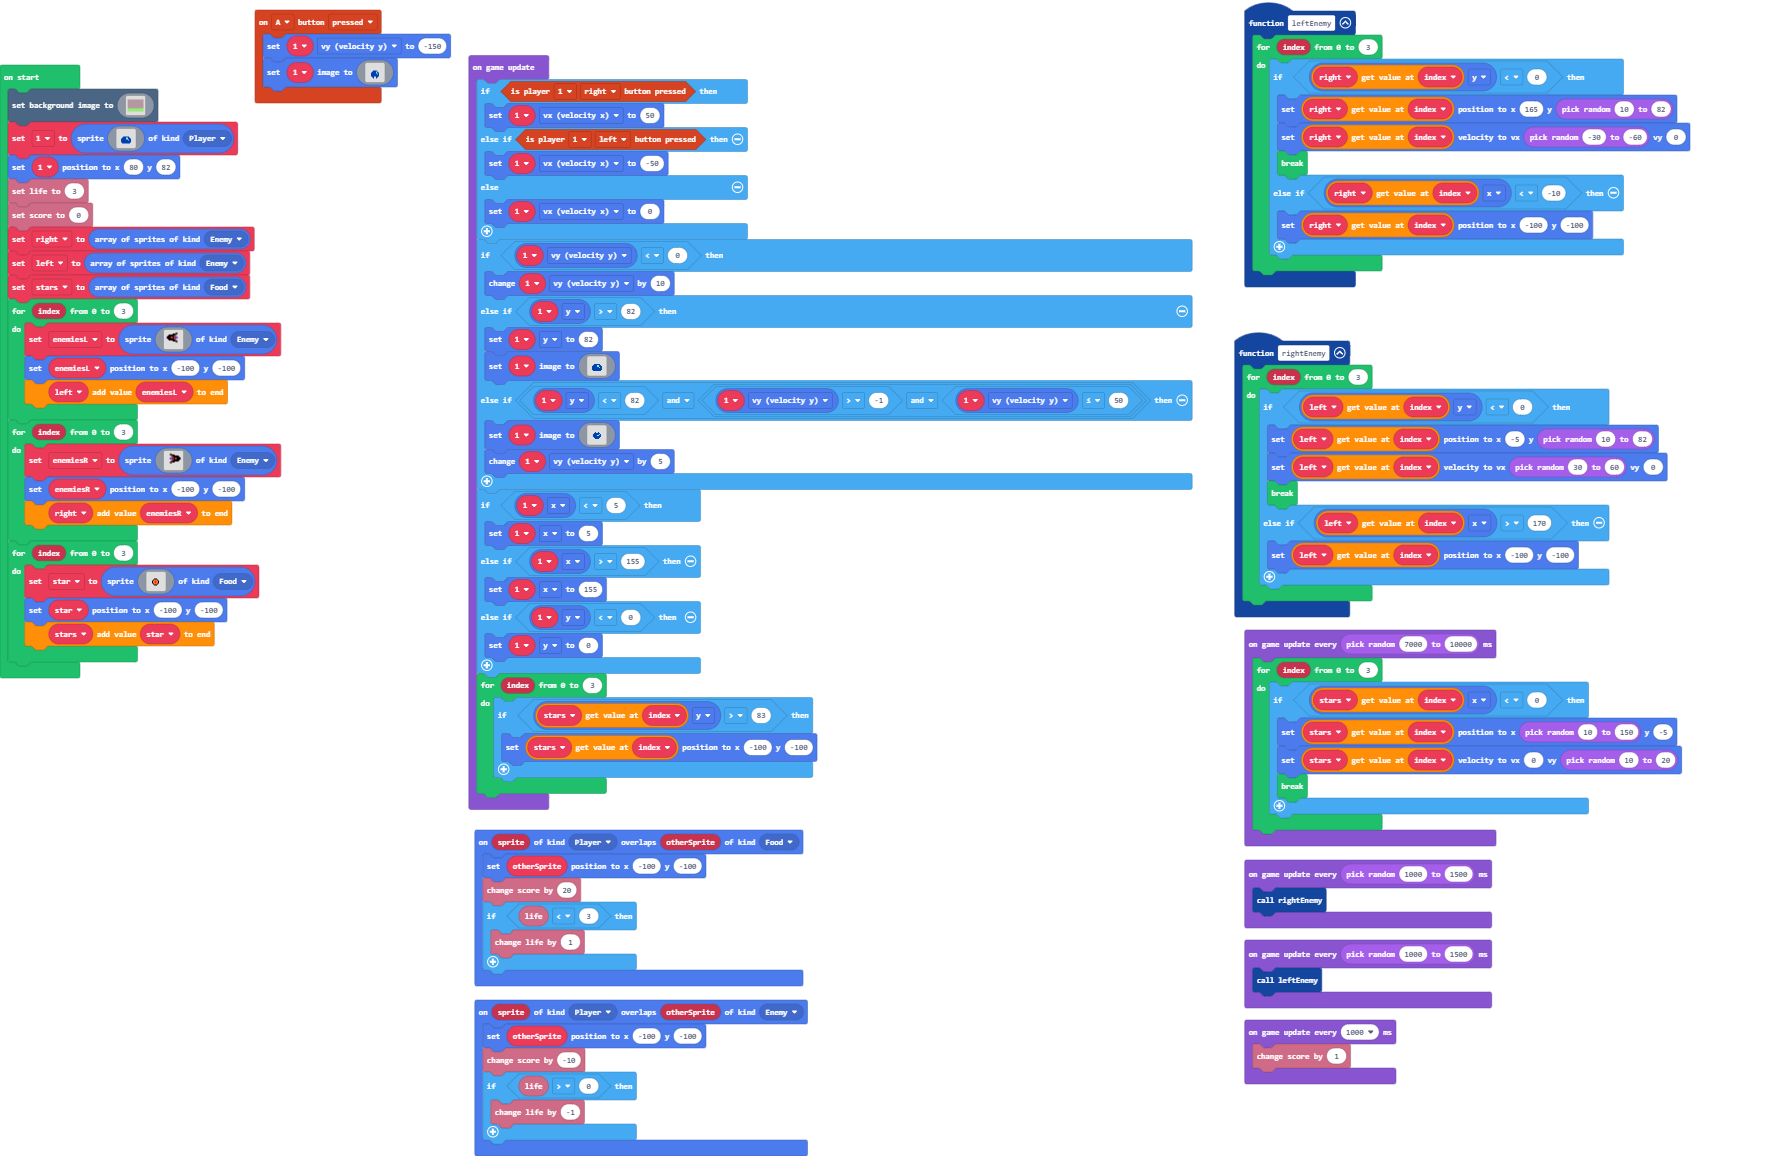
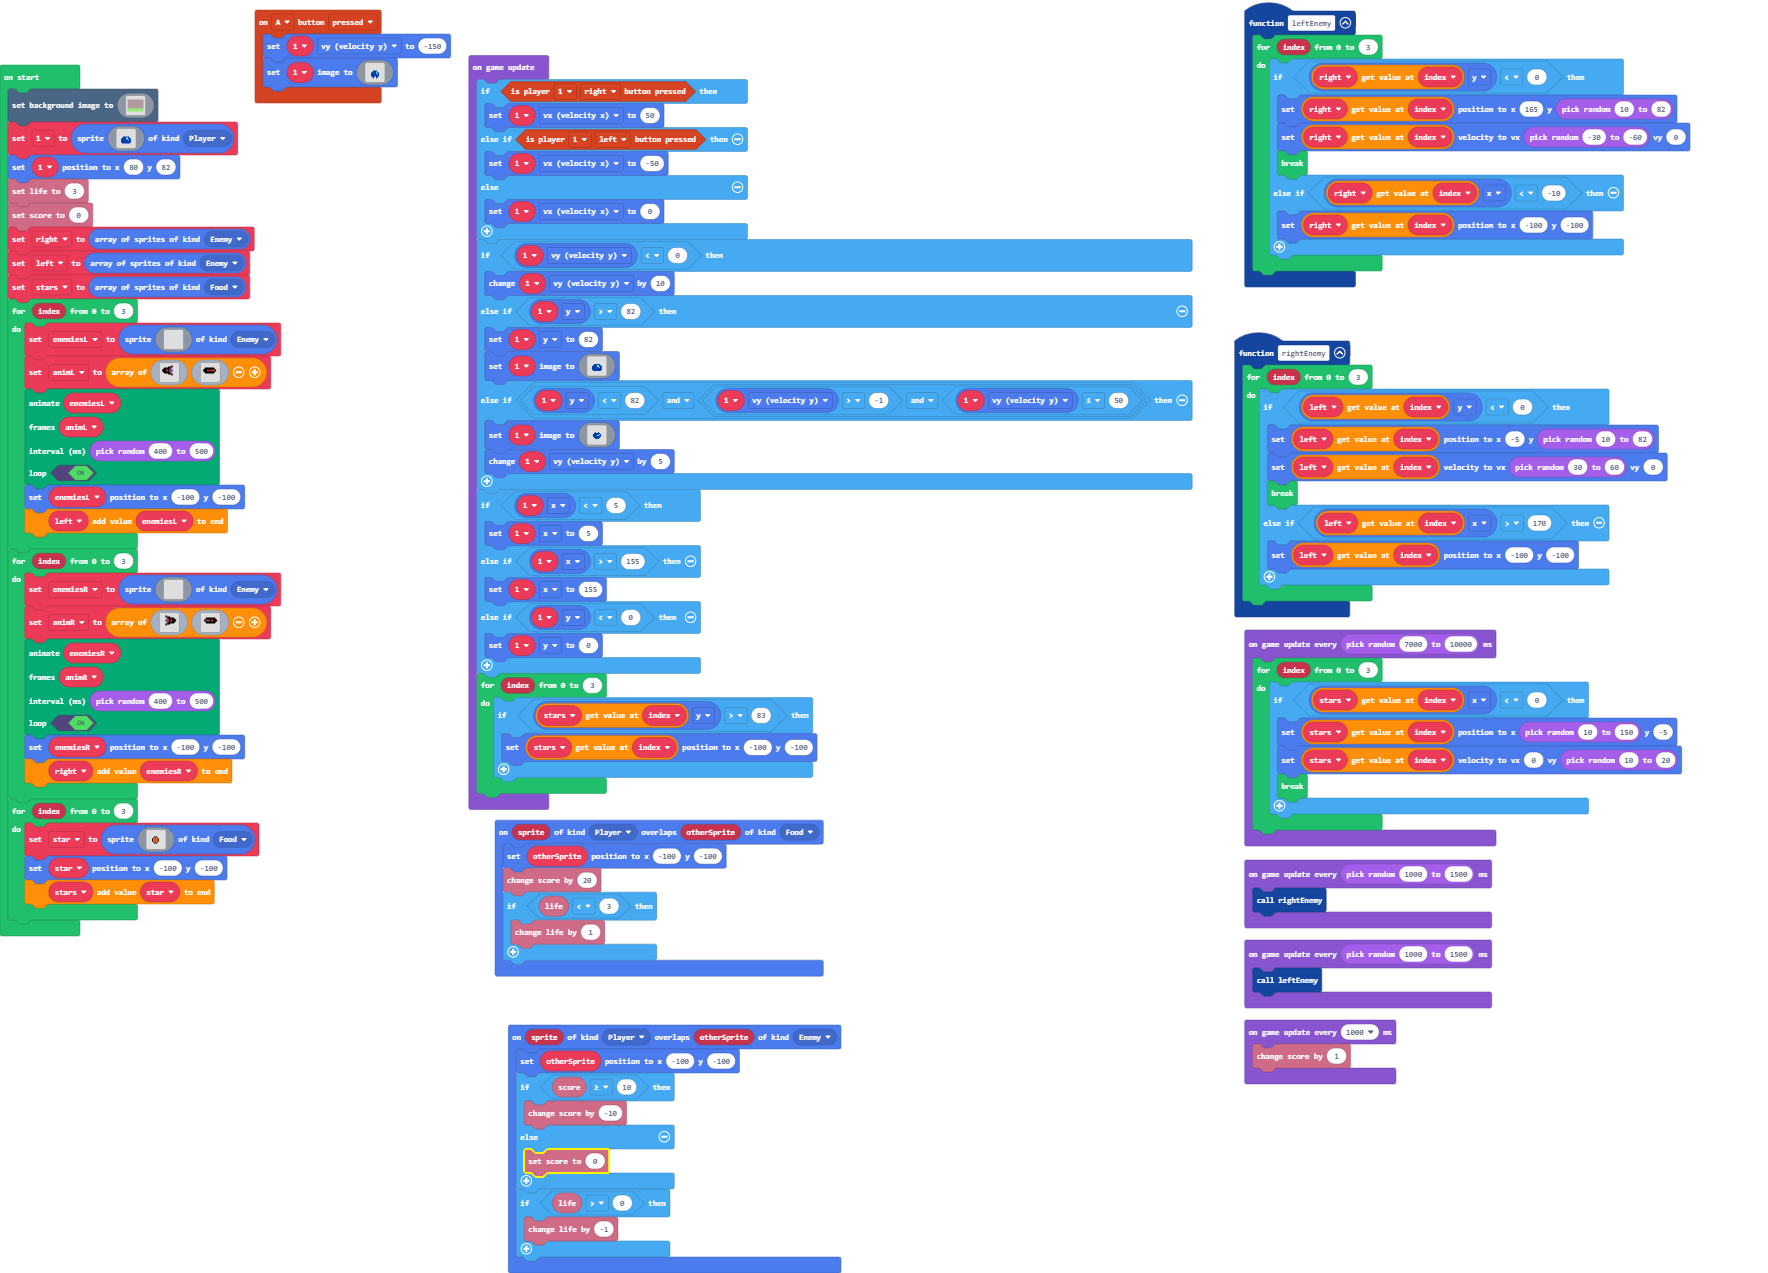
complete main game

diff --git a/images.g.ts b/images.g.ts
@@ -145,44 +145,6 @@ bbbbbbbbbbbbbbbbbbbbbbbbbbbbbbbbbbbbbbbbbbbbbbbbbbbbbbbbbbbbbbbbbbbbbbbbbbbbbbbb
 . . . . . . . . . . . . . . . . 
 . . . . . . . . . . . . . . . . 
 `;
-            case "-ciR11c:]k@W~hZ29+T:":
-            case "5":return img`
-. . . . . . . . . . . . . . . . 
-. . . . e f . . . . . . . . . . 
-. . . . c e f f f . . . . . . . 
-. . . . . c e f f f f f f . . . 
-. . . . . . c e f f f f f f . . 
-. . . . a a c e f 2 2 f f f f . 
-. . . . a a c e f 2 2 f f f f . 
-. . . . . . c e f f f f f f . . 
-. . . . . c e f f f f f f . . . 
-. . . . c e f f f . . . . . . . 
-. . . . e f . . . . . . . . . . 
-. . . . . . . . . . . . . . . . 
-. . . . . . . . . . . . . . . . 
-. . . . . . . . . . . . . . . . 
-. . . . . . . . . . . . . . . . 
-. . . . . . . . . . . . . . . . 
-`;
-            case "]":
-            case "4":return img`
-. . . . . . . . . . . . . . . . 
-. . . . . . . . . . f e . . . . 
-. . . . . . . f f f e c . . . . 
-. . . f f f f f f e c . . . . . 
-. . f f f f f f e c . . . . . . 
-. f f f f 2 2 f e c a a . . . . 
-. f f f f 2 2 f e c a a . . . . 
-. . f f f f f f e c . . . . . . 
-. . . f f f f f f e c . . . . . 
-. . . . . . . f f f e c . . . . 
-. . . . . . . . . . f e . . . . 
-. . . . . . . . . . . . . . . . 
-. . . . . . . . . . . . . . . . 
-. . . . . . . . . . . . . . . . 
-. . . . . . . . . . . . . . . . 
-. . . . . . . . . . . . . . . . 
-`;
             case "IA,cz=pih{;ZPy$4k5Lw":
             case "3":return img`
 . . . . . . . . . . . . . . . . 
@@ -259,6 +221,25 @@ bbbbbbbbbbbbbbbbbbbbbbbbbbbbbbbbbbbbbbbbbbbbbbbbbbbbbbbbbbbbbbbbbbbbbbbbbbbbbbbb
 . . . . . . . . . . . . . . . . 
 . . . . . . . . . . . . . . . . 
 `;
+            case "]":
+            case "4":return img`
+. . . . . . . . . . . . . . . . 
+. . . . . . . . . . f e . . . . 
+. . . . . . . f f f e c . . . . 
+. . . f f f f f f e c . . . . . 
+. . f f f f f f e c . . . . . . 
+. f f f f 2 2 f e c a a . . . . 
+. f f f f 2 2 f e c a a . . . . 
+. . f f f f f f e c . . . . . . 
+. . . f f f f f f e c . . . . . 
+. . . . . . . f f f e c . . . . 
+. . . . . . . . . . f e . . . . 
+. . . . . . . . . . . . . . . . 
+. . . . . . . . . . . . . . . . 
+. . . . . . . . . . . . . . . . 
+. . . . . . . . . . . . . . . . 
+. . . . . . . . . . . . . . . . 
+`;
             case "N#oyg-;5q;cqOSOH2,_{":
             case "9":return img`
 . . . . . . . . . . . . . . . . 
@@ -272,6 +253,25 @@ bbbbbbbbbbbbbbbbbbbbbbbbbbbbbbbbbbbbbbbbbbbbbbbbbbbbbbbbbbbbbbbbbbbbbbbbbbbbbbbb
 . . . f f f f f f f f f . . . . 
 . . . . . . . . . . . . . . . . 
 . . . . . . . . . . . . . . . . 
+. . . . . . . . . . . . . . . . 
+. . . . . . . . . . . . . . . . 
+. . . . . . . . . . . . . . . . 
+. . . . . . . . . . . . . . . . 
+. . . . . . . . . . . . . . . . 
+`;
+            case "-ciR11c:]k@W~hZ29+T:":
+            case "5":return img`
+. . . . . . . . . . . . . . . . 
+. . . . e f . . . . . . . . . . 
+. . . . c e f f f . . . . . . . 
+. . . . . c e f f f f f f . . . 
+. . . . . . c e f f f f f f . . 
+. . . . a a c e f 2 2 f f f f . 
+. . . . a a c e f 2 2 f f f f . 
+. . . . . . c e f f f f f f . . 
+. . . . . c e f f f f f f . . . 
+. . . . c e f f f . . . . . . . 
+. . . . e f . . . . . . . . . . 
 . . . . . . . . . . . . . . . . 
 . . . . . . . . . . . . . . . . 
 . . . . . . . . . . . . . . . . 

diff --git a/main.ts b/main.ts
@@ -44,13 +44,19 @@ function leftEnemy () {
 }
 sprites.onOverlap(SpriteKind.Player, SpriteKind.Enemy, function (sprite, otherSprite) {
     otherSprite.setPosition(-100, -100)
-    info.changeScoreBy(-10)
+    if (info.score() >= 10) {
+        info.changeScoreBy(-10)
+    } else {
+        info.setScore(0)
+    }
     if (info.life() > 0) {
         info.changeLifeBy(-1)
     }
 })
 let star: Sprite = null
+let animR: Image[] = []
 let enemiesR: Sprite = null
+let animL: Image[] = []
 let enemiesL: Sprite = null
 let left: Sprite[] = []
 let right: Sprite[] = []
@@ -64,12 +70,60 @@ right = sprites.allOfKind(SpriteKind.Enemy)
 left = sprites.allOfKind(SpriteKind.Enemy)
 let stars = sprites.allOfKind(SpriteKind.Food)
 for (let index = 0; index <= 3; index++) {
-    enemiesL = sprites.create(assets.image`4`, SpriteKind.Enemy)
+    enemiesL = sprites.create(img`
+        . . . . . . . . . . . . . . . . 
+        . . . . . . . . . . . . . . . . 
+        . . . . . . . . . . . . . . . . 
+        . . . . . . . . . . . . . . . . 
+        . . . . . . . . . . . . . . . . 
+        . . . . . . . . . . . . . . . . 
+        . . . . . . . . . . . . . . . . 
+        . . . . . . . . . . . . . . . . 
+        . . . . . . . . . . . . . . . . 
+        . . . . . . . . . . . . . . . . 
+        . . . . . . . . . . . . . . . . 
+        . . . . . . . . . . . . . . . . 
+        . . . . . . . . . . . . . . . . 
+        . . . . . . . . . . . . . . . . 
+        . . . . . . . . . . . . . . . . 
+        . . . . . . . . . . . . . . . . 
+        `, SpriteKind.Enemy)
+    animL = [assets.image`4`, assets.image`9`]
+    animation.runImageAnimation(
+    enemiesL,
+    animL,
+    randint(400, 500),
+    true
+    )
     enemiesL.setPosition(-100, -100)
     left.push(enemiesL)
 }
 for (let index = 0; index <= 3; index++) {
-    enemiesR = sprites.create(assets.image`5`, SpriteKind.Enemy)
+    enemiesR = sprites.create(img`
+        . . . . . . . . . . . . . . . . 
+        . . . . . . . . . . . . . . . . 
+        . . . . . . . . . . . . . . . . 
+        . . . . . . . . . . . . . . . . 
+        . . . . . . . . . . . . . . . . 
+        . . . . . . . . . . . . . . . . 
+        . . . . . . . . . . . . . . . . 
+        . . . . . . . . . . . . . . . . 
+        . . . . . . . . . . . . . . . . 
+        . . . . . . . . . . . . . . . . 
+        . . . . . . . . . . . . . . . . 
+        . . . . . . . . . . . . . . . . 
+        . . . . . . . . . . . . . . . . 
+        . . . . . . . . . . . . . . . . 
+        . . . . . . . . . . . . . . . . 
+        . . . . . . . . . . . . . . . . 
+        `, SpriteKind.Enemy)
+    animR = [assets.image`5`, assets.image`8`]
+    animation.runImageAnimation(
+    enemiesR,
+    animR,
+    randint(400, 500),
+    true
+    )
     enemiesR.setPosition(-100, -100)
     right.push(enemiesR)
 }
